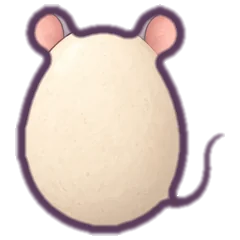
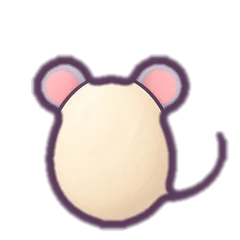
Batch 10: egg bounds fix + in-game shots + memory
Reprocess egg critters against real catalog SVGs; FIT_ADJUST cada-mouse.
art_ingame_bounds living eggs 3/3 OK day+night. Add 820x1180 ranch/living
before/after shots and decoded-memory snapshot (ranch still 34.6 MB).

diff --git a/STATUS.md b/STATUS.md
@@ -75,3 +75,12 @@ Base: main **6f89474** (PR #58 merged). Branch `cursor/batch10-painted-animals`.
   New contact sheet: work/sheets/batch10-review-*.png + shots/batch10/batch10-contact-sheet*.png (SHA stamp after commit).
   Next: stamp SHA on sheet → art_ingame_bounds ±3% → decoded memory → in-game 820x1180 before/after → full gate vs 6f89474 when lock free → old-client smoke → update PR #66.
   Still NOT cleared for Andy/preview until App Builder re-review.
+
+- 2026-11-06 ~03:15 CT  Post-ART_REVIEW verification (SHA after this commit):
+  - Egg critters reprocessed with real catalog SVGs + FIT_ADJUST egg:cada-mouse [0,-0.5].
+  - art_ingame_bounds living eggs SKY=day: **3/3 OK** (±2%). SKY=night: **3/3 OK**.
+  - Decoded memory (scene_perf_mem): ranch still **34.6 MB** (unchanged scene backdrop); living rooms ~23 MB; park 27.8; map 11.2.
+  - In-game 820x1180 chromium before/after: shots/batch10/ingame/pr-<sha>__{ranch,room-living}__820x1180__chromium{,__artv1}.png
+  - Contact sheet: shots/batch10/batch10-contact-sheet.png (SHA-labeled).
+  - Gate lock `/workspace/surprise/gate.lock` still contended by batches 6/7/8 — full gate + old-client 10ef736 smoke still pending.
+  - Still NOT cleared for Andy/preview until App Builder re-reviews P0/P1 art.
